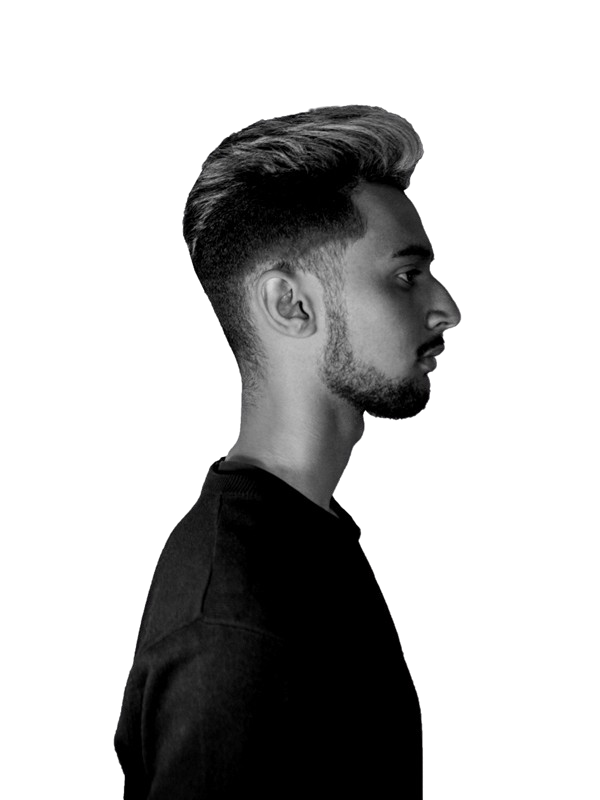
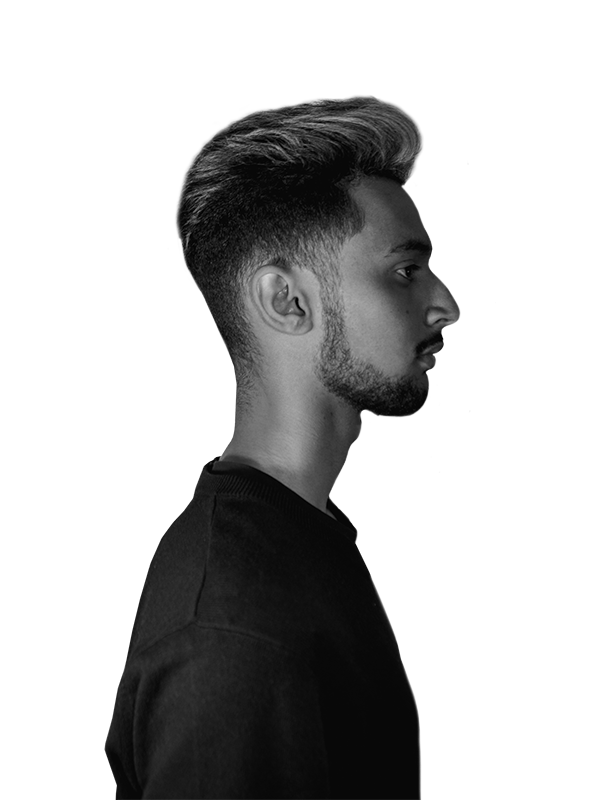
Atualizar foto e conteúdo da página

diff --git a/src/css/style.css b/src/css/style.css
@@ -1,1 +1,1 @@
-*,*::before,*::after{box-sizing:border-box}html{scroll-behavior:smooth}body{font-family:"Poppins",sans-serif;margin:0;padding:0;overflow-x:hidden;transition:.4s}body,section{overflow-x:hidden}img{max-width:100%}ul{margin:0;padding-left:0}li{list-style:none}a{text-decoration:none}button{cursor:pointer}h1,h2,h3,h4,p{margin:0;padding:0}.container,.row{display:flex;flex:1;flex-wrap:wrap}.grid-md-12{margin-left:10px;margin-right:10px;min-height:1px;width:calc(100% - 20px)}.grid-1{width:calc(8.33333% - 20px)}.grid-2{width:calc(16.66667% - 20px)}.grid-3{width:calc(25% - 20px)}.grid-4{width:calc(33.33333% - 20px)}.grid-5{width:calc(41.66667% - 20px)}.grid-6{width:calc(50% - 20px)}.grid-7{width:calc(58.33333% - 20px)}.grid-8{width:calc(66.66667% - 20px)}.grid-9{width:calc(75% - 20px)}.grid-10{width:calc(83.33333% - 20px)}.grid-11{width:calc(91.66667% - 20px)}.grid-12{width:calc(100% - 20px)}[class^="grid-"]{margin-left:10px;margin-right:10px;min-height:1px}@media screen and (max-width: 819px){[class^="grid-"]{margin-left:0;margin-right:0;width:100%}}.offset-1{margin-left:calc(8.33333% + 10px)}.offset-2{margin-left:calc(16.66667% + 10px)}.offset-3{margin-left:calc(25% + 10px)}.offset-4{margin-left:calc(33.33333% + 10px)}.offset-5{margin-left:calc(41.66667% + 10px)}.offset-6{margin-left:calc(50% + 10px)}.offset-7{margin-left:calc(58.33333% + 10px)}.offset-8{margin-left:calc(66.66667% + 10px)}.offset-9{margin-left:calc(75% + 10px)}.offset-10{margin-left:calc(83.33333% + 10px)}.offset-11{margin-left:calc(91.66667% + 10px)}.offset-12{margin-left:calc(100% + 10px)}@media screen and (max-width: 819px){.offset-1,.offset-2,.offset-3,.offset-4,.offset-5,.offset-6,.offset-7,.offset-8,.offset-9,.offset-10,.offset-11,.offset-12{margin-left:0}}.container{margin:0 auto;max-width:1200px;position:relative}@media screen and (min-width: 820px) and (max-width: 1200px){.container{max-width:820px}}@media screen and (max-width: 819px){.container{max-width:720px;padding-left:10px;padding-right:10px}}.row{margin-left:-10px;margin-right:-10px;position:relative}@media screen and (max-width: 819px){.row{margin-left:0;margin-right:0}}@media screen and (min-width: 820px) and (max-width: 1200px){.grid-md-12{width:calc(100% - 20px)}}.btn{background:#ed145d;border-radius:4px;color:#fff !important;display:block;font-weight:300;margin:0 auto;padding:8px 10px !important;text-transform:uppercase;width:fit-content}.btn-secondary{background:#3c3c3c}.btn-mobile{background:none;border:none;display:none;height:50px;margin:5px;outline:none;width:55px;z-index:99}@media screen and (max-width: 819px){.btn-mobile{display:block}}.btn-mobile span{transition:0.2s;display:block;width:100%;background:#ed145d;height:4px;border-radius:10px}.btn-mobile span+span{margin-top:11px}.btn-mobile span:nth-child(2){width:80%}.btn-mobile span:nth-child(3){width:60%}.btn-mobile.active span{background:#fff}.btn-mobile.active span:nth-child(1){transform:rotate(40deg)}.btn-mobile.active span:nth-child(2){display:none;width:100%}.btn-mobile.active span:nth-child(3){transform:rotate(-40deg);margin-top:-3px;width:100%}.bg-session{position:relative}.bg-session::before{content:'';display:block;height:100%;position:absolute;left:0;top:0;width:100%;background:#dedede;z-index:-10}.title-session{font-weight:900 !important;margin-bottom:32px !important;position:relative;text-transform:uppercase;font-family:"Poppins",sans-serif;font-weight:600;font-size:2.5em;line-height:1em}.title-session::after,.title-session::before{content:'';display:inline-block;position:absolute}.title-session::after{border-radius:4px;height:4px;background:#ed145d;bottom:-8px;left:0;width:30px}.title-session::before{color:#c1c1c1;font-size:130px;font-weight:600 !important;z-index:-1;opacity:0}@media screen and (max-width: 819px){.title-session::before{font-size:100px}}@media screen and (max-width: 719px){.title-session::before{font-size:80px;margin-top:-5px}}@keyframes toLeft{from{transform:translateX(200%);opacity:0}to{transform:translateX(0%);opacity:1}}@keyframes toRight{from{transform:translateX(-200%);opacity:0}to{transform:translateX(0%);opacity:1}}.subtitle-session{margin-bottom:32px;font-family:"Poppins",sans-serif;color:#151515;font-size:1.75em;line-height:1.35714em}@media screen and (max-width: 719px){.subtitle-session{font-size:1.25em}}p{font-weight:500;margin-bottom:16px;font-family:"Poppins",sans-serif;font-size:.875em;line-height:1.42857em}.header{z-index:-1}.header-top{background:#3c3c3c;font-family:"Poppins",sans-serif;font-size:.75em;line-height:1.5em}.header-top .container{z-index:1;padding:4px 0}.header-top a{color:#fff}.header-action{width:100%}.header-action ul{display:flex}.header-action-items{align-items:center;display:flex;width:100%}@media screen and (max-width: 819px){.header-action-items{justify-content:center}}.header-action-items li+li{margin-left:16px}.header-action-nav li span{display:none}.header-action-font{margin-left:32px;margin-right:32px}.header-action-font button{padding:3px;width:36px}@media screen and (max-width: 819px){.header-action-font button{width:32px}}.header-action-contrast li{align-items:center;display:flex;color:#fff}.header-action-contrast img{margin-right:4px;width:16px}@media screen and (max-width: 819px){.header-action-contrast img{width:24px}}.header-action-contrast button{align-items:center;background:transparent !important;border:none !important;color:#fff;display:flex;font-family:Poppins;font-size:12px;font-weight:400}@media screen and (max-width: 819px){.header-action-contrast span{display:none}}.header-main{padding:16px 0}.header-main .container{display:flex;justify-content:space-between}.header-main-logo{color:#ed145d;font-size:30px;transition:0.5s;z-index:1}.header-main-logo::before,.header-main-logo::after{content:'';color:#ed145d;display:inline-block;font-size:26px}.header-main-logo::before{content:'<'}.header-main-logo::after{content:'/>'}@media screen and (max-width: 819px){.header-main-logo{margin-top:10px;z-index:9999}}.header-main-nav{align-items:center;display:flex}@media screen and (max-width: 819px){.header-main-nav{background:rgba(0,0,0,0.999);flex-direction:column;height:calc(100vh + 56px);left:-42px;padding-top:160px;position:absolute;transition:0.5s;top:-60px;margin-left:-100% !important;min-width:35%;width:320px;z-index:1}.header-main-nav.active{left:-42px;margin-left:-10px !important}.header-main-nav.active::after{background:rgba(0,0,0,0.5);content:'';display:inline-block;height:calc(160vh + 60px);left:320px;margin-left:0;position:absolute;right:auto;top:0;width:calc(100vw - 296px)}}@media screen and (max-width: 819px) and (max-width: 719px){.header-main-nav.active{left:0}.header-main-nav.active::after{width:calc(100vw - 320px)}}@media screen and (max-width: 819px){.header-main-nav li{display:block;margin-bottom:5px;text-align:left;width:100%}.header-main-nav li a{padding-left:55px;width:100%}}@media screen and (max-width: 819px) and (max-width: 819px){.header-main-nav li a{padding-top:16px !important;padding-bottom:16px !important;display:block}}@media screen and (max-width: 819px) and (max-width: 719px){.header-main-nav li a{padding-left:20px;width:100% !important}}.header-main-nav li+li{margin-left:22px}@media screen and (max-width: 819px){.header-main-nav li+li{margin-left:0}}@media screen and (max-width: 819px){.header-main-nav .btn{border-radius:0 !important;padding-left:55px !important;width:100% !important}}@media screen and (max-width: 719px){.header-main-nav .btn{padding-left:20px !important}}.header-main-nav a{color:#7b7e80;padding:10px}.main{height:86vh;min-height:658px}@media screen and (max-width: 819px){.main{min-height:auto !important;margin-bottom:0px !important}}@media screen and (min-width: 1440px){.main{height:70vh}}.main .container{height:100%}.main-content{position:relative}.main-content-center{position:absolute;right:-72px;transform:rotate(-90deg);top:45px;z-index:-1}@media screen and (max-width: 819px){.main-content-center{right:200px;top:115px}}@media screen and (max-width: 719px){.main-content-center{right:-20px;top:115px}}.main-content-center h1{text-transform:uppercase;position:relative;overflow:hidden;height:192px;width:500px;font-family:"Poppins",sans-serif;font-size:3.75em;font-weight:900 !important;letter-spacing:-1px;line-height:1.05em}@media screen and (max-width: 819px){.main-content-center h1{font-size:3em}}.main-content-center h1 .text-effect{position:absolute}.main-content-center h2{left:-50px;position:absolute;text-transform:uppercase;top:75px;z-index:-1;font-family:"Poppins",sans-serif;color:#c1c1c1;font-size:8.125em;font-weight:600;letter-spacing:8px;line-height:.70769em}.main-content-center h3{height:80px;margin-bottom:16px;margin-top:16px;overflow:hidden;position:relative;text-transform:uppercase;font-family:"Poppins",sans-serif;font-weight:600;font-size:2.5em;line-height:1em}@media screen and (max-width: 819px){.main-content-center h3{display:none}}.main-content-center h3 .text-effect{position:absolute}.main-content-center p{color:#7b7e80;height:100px;overflow:hidden;position:relative;width:200px;font-family:"Poppins",sans-serif;font-size:.75em;line-height:1.5em}@media screen and (max-width: 819px){.main-content-center p{height:110px}}.main-content-center p .text-effect{position:absolute}.main-content-bottom{bottom:0;position:absolute}@media screen and (max-width: 819px){.main-content-bottom{position:relative;display:none}}.main-content-bottom span span{color:#ed145d}.main-content-bottom h2{height:84px;margin-bottom:15px;overflow:hidden;position:relative;width:420px;font-family:"Poppins",sans-serif;color:#151515;font-size:1.75em;line-height:1.35714em}@media screen and (max-width: 719px){.main-content-bottom h2{font-size:1.25em}}@media screen and (max-width: 819px){.main-content-bottom h2{max-width:100%;max-width:329px;overflow:initial}}.main-content-bottom h2 .text-effect{position:absolute}.main-img{align-items:flex-end;display:flex;justify-content:center}@media screen and (max-width: 819px){.main-img{align-items:flex-end;justify-content:flex-end}}.main-img-bg{background:url(../img/me01.jpeg) no-repeat;background-size:98% 100%;bottom:0;height:620px;margin-top:14px;right:0;width:445px}@media screen and (min-width: 820px) and (max-width: 1200px){.main-img-bg{background-size:114% 100%;background-position-x:31%;width:370px !important}}@media screen and (max-width: 819px){.main-img-bg{background:url(../img/me01-mobile.png) no-repeat;background-size:95% 100%;background-position:80px bottom;margin-right:0;margin-left:-110px;margin-top:-90px}}.about{padding:102px 0 64px;position:relative;width:100%}@media screen and (max-width: 819px){.about{padding:64px 0 !important}}@media screen and (max-width: 819px){.about h2,.about h3{text-align:center}}.about .title-session{height:40px}.about .title-session::before{content:'Sobre';left:-35px}@media screen and (max-width: 819px){.about .title-session::before{left:0;width:100%}}@media screen and (max-width: 819px){.about .title-session::after{display:block;margin:auto;position:relative}}.about-img{align-items:center;display:flex;justify-content:center}@media screen and (max-width: 819px){.about-text{padding-top:59px}}.portfolio{padding:102px 0 64px;text-align:center}.portfolio .grid-10{margin-left:auto;margin-right:auto}.portfolio h2::before{content:'Portfólio';text-align:center;width:100%;display:block}.portfolio h2::after{display:block;margin:auto;position:relative}.portfolio-slider-item{border-radius:5px;height:fit-content;position:relative;width:100.03%}@media screen and (max-width: 719px){.portfolio .slides-container{height:320px !important}}.stacks{padding:102px 0 64px;text-align:center}.stacks .grid-10{margin-left:auto;margin-right:auto}@media screen and (max-width: 819px){.stacks .row{justify-content:center}}.stacks h2::before{content:'Tecnologias';text-align:center;display:block;width:100%}@media screen and (min-width: 820px) and (max-width: 1200px){.stacks h2::before{margin-left:-60px !important}}@media screen and (max-width: 719px){.stacks h2::before{margin-left:-1%}}.stacks h2::after{display:block;margin:auto;position:relative}.stacks-itens{margin-top:64px}.stacks-item{margin-bottom:32px;width:calc(100% / 5)}@media screen and (max-width: 819px){.stacks-item{width:calc(100% / 3)}}@media screen and (max-width: 719px){.stacks-item{width:calc(100% / 2)}}.stacks-item h4{color:#3c3c3c;text-transform:uppercase;margin-top:16px;font-family:"Poppins",sans-serif;font-size:1em;font-weight:500}.stacks-buttons{align-items:center;display:flex;flex-direction:column;margin-top:32px}.stacks-buttons a{display:block;width:185px}.stacks-buttons a:nth-child(1){margin-bottom:16px}.stacks-buttons a:nth-child(2){margin-bottom:16px}.proposal{padding:102px 0 64px;text-align:center}.proposal .grid-10{margin-left:auto;margin-right:auto}.proposal h2::before{content:'Inovar';text-align:center;display:block;width:100%}.proposal h2::after{display:block;margin:auto;position:relative}.proposal h3{margin-right:auto;margin-left:auto}@media screen and (min-width: 1200px){.proposal h3{width:70%}}.proposal .btn{margin-bottom:16px}footer{background:#3c3c3c;padding:32px 0;text-align:center}.wrapper{overflow:hidden;width:100%}.slides-container{height:500px;position:relative;transition:900ms}.slide-image{height:100%;position:absolute;width:100%}.slide-image img{height:100%;object-fit:cover;object-position:top;transition:8s;width:100%}.slide-image:hover img{object-position:bottom}.next-btn,.prev-btn{color:#ed145d;cursor:pointer;font-size:40px;padding:16px;position:absolute;transform:translateY(-50%);transition:400ms;top:50%;z-index:100}.next-btn:hover,.prev-btn:hover{color:#bb002b}.prev-btn{left:-70px}@media screen and (max-width: 719px){.prev-btn{left:-35px}}.next-btn{right:-70px}@media screen and (max-width: 719px){.next-btn{right:-35px}}.navigation-dots{display:flex;height:32px;align-items:center;justify-content:center;margin:16px 0}.single-dot{border:2px solid #ed145d;border-radius:50%;cursor:pointer;display:inline-block;height:14px;margin:0 8px;transition:400ms;width:14px}.single-dot.active{background:#ed145d}.dark{background:#1b1b1b !important}.dark h1{color:#fff !important}.dark h2{color:#fff !important}.dark .bg-session::before{background:#171717}.dark .main-content-center h2{color:#3b3b3b !important}.dark .main-content-center h3{color:#fff !important}.dark .main-content-center p{color:#7B7E80 !important}.dark .title-session::before{color:#3b3b3b !important}.dark .subtitle-session{color:#fff !important}.dark p{color:#fff !important}.dark .stacks-item:not(:nth-child(7)) svg path{fill:#ed145d !important}.dark .stacks-item:nth-child(7) path:not(:nth-child(4)){fill:#ed145d !important}.dark .stacks-item:nth-child(7) path:nth-child(4){fill:#1b1b1b !important}.dark .stacks-item h4{color:#fff !important}.dark footer{background:#171717}.section-animation{opacity:0}.section-animation.active{animation:animaSection 1s forwards}.section-animation.active .title-session::before{animation:toLeft forwards 2s}.section-animation.portfolio.active .title-session::before{animation:toRight forwards 2s}.section-animation.proposal.active .title-session::before{animation:toRight forwards 2s}@keyframes animaSection{from{opacity:0;transform:translateX(-40px)}to{opacity:1;transform:translateX(0px)}}
+*,*::before,*::after{box-sizing:border-box}html{scroll-behavior:smooth}body{font-family:"Poppins",sans-serif;margin:0;padding:0;overflow-x:hidden;transition:.4s}body,section{overflow-x:hidden}img{max-width:100%}ul{margin:0;padding-left:0}li{list-style:none}a{text-decoration:none}button{cursor:pointer}h1,h2,h3,h4,p{margin:0;padding:0}.container,.row{display:flex;flex:1;flex-wrap:wrap}.grid-md-12{margin-left:10px;margin-right:10px;min-height:1px;width:calc(100% - 20px)}.grid-1{width:calc(8.33333% - 20px)}.grid-2{width:calc(16.66667% - 20px)}.grid-3{width:calc(25% - 20px)}.grid-4{width:calc(33.33333% - 20px)}.grid-5{width:calc(41.66667% - 20px)}.grid-6{width:calc(50% - 20px)}.grid-7{width:calc(58.33333% - 20px)}.grid-8{width:calc(66.66667% - 20px)}.grid-9{width:calc(75% - 20px)}.grid-10{width:calc(83.33333% - 20px)}.grid-11{width:calc(91.66667% - 20px)}.grid-12{width:calc(100% - 20px)}[class^="grid-"]{margin-left:10px;margin-right:10px;min-height:1px}@media screen and (max-width: 819px){[class^="grid-"]{margin-left:0;margin-right:0;width:100%}}.offset-1{margin-left:calc(8.33333% + 10px)}.offset-2{margin-left:calc(16.66667% + 10px)}.offset-3{margin-left:calc(25% + 10px)}.offset-4{margin-left:calc(33.33333% + 10px)}.offset-5{margin-left:calc(41.66667% + 10px)}.offset-6{margin-left:calc(50% + 10px)}.offset-7{margin-left:calc(58.33333% + 10px)}.offset-8{margin-left:calc(66.66667% + 10px)}.offset-9{margin-left:calc(75% + 10px)}.offset-10{margin-left:calc(83.33333% + 10px)}.offset-11{margin-left:calc(91.66667% + 10px)}.offset-12{margin-left:calc(100% + 10px)}@media screen and (max-width: 819px){.offset-1,.offset-2,.offset-3,.offset-4,.offset-5,.offset-6,.offset-7,.offset-8,.offset-9,.offset-10,.offset-11,.offset-12{margin-left:0}}.container{margin:0 auto;max-width:1200px;position:relative}@media screen and (min-width: 820px) and (max-width: 1200px){.container{max-width:820px}}@media screen and (max-width: 819px){.container{max-width:720px;padding-left:10px;padding-right:10px}}.row{margin-left:-10px;margin-right:-10px;position:relative}@media screen and (max-width: 819px){.row{margin-left:0;margin-right:0}}@media screen and (min-width: 820px) and (max-width: 1200px){.grid-md-12{width:calc(100% - 20px)}}.btn{background:#ed145d;border-radius:4px;color:#fff !important;display:block;font-weight:300;margin:0 auto;padding:8px 10px !important;text-transform:uppercase;width:fit-content}.btn-secondary{background:#3c3c3c}.btn-mobile{background:none;border:none;display:none;height:50px;margin:5px;outline:none;width:55px;z-index:99}@media screen and (max-width: 819px){.btn-mobile{display:block}}.btn-mobile span{transition:0.2s;display:block;width:100%;background:#ed145d;height:4px;border-radius:10px}.btn-mobile span+span{margin-top:11px}.btn-mobile span:nth-child(2){width:80%}.btn-mobile span:nth-child(3){width:60%}.btn-mobile.active span{background:#fff}.btn-mobile.active span:nth-child(1){transform:rotate(40deg)}.btn-mobile.active span:nth-child(2){display:none;width:100%}.btn-mobile.active span:nth-child(3){transform:rotate(-40deg);margin-top:-3px;width:100%}.bg-session{position:relative}.bg-session::before{content:'';display:block;height:100%;position:absolute;left:0;top:0;width:100%;background:#dedede;z-index:-10}.title-session{font-weight:900 !important;margin-bottom:32px !important;position:relative;text-transform:uppercase;font-family:"Poppins",sans-serif;font-weight:600;font-size:2.5em;line-height:1em}.title-session::after,.title-session::before{content:'';display:inline-block;position:absolute}.title-session::after{border-radius:4px;height:4px;background:#ed145d;bottom:-8px;left:0;width:30px}.title-session::before{color:#c1c1c1;font-size:130px;font-weight:600 !important;z-index:-1;opacity:0}@media screen and (max-width: 819px){.title-session::before{font-size:100px}}@media screen and (max-width: 719px){.title-session::before{font-size:80px;margin-top:-5px}}@keyframes toLeft{from{transform:translateX(200%);opacity:0}to{transform:translateX(0%);opacity:1}}@keyframes toRight{from{transform:translateX(-200%);opacity:0}to{transform:translateX(0%);opacity:1}}.subtitle-session{margin-bottom:32px;font-family:"Poppins",sans-serif;color:#151515;font-size:1.75em;line-height:1.35714em}@media screen and (max-width: 719px){.subtitle-session{font-size:1.25em}}p{font-weight:500;margin-bottom:16px;font-family:"Poppins",sans-serif;font-size:.875em;line-height:1.42857em}.header{z-index:-1}.header-top{background:#3c3c3c;font-family:"Poppins",sans-serif;font-size:.75em;line-height:1.5em}.header-top .container{z-index:1;padding:4px 0}.header-top a{color:#fff}.header-action{width:100%}.header-action ul{display:flex}.header-action-items{align-items:center;display:flex;width:100%}@media screen and (max-width: 819px){.header-action-items{justify-content:center}}.header-action-items li+li{margin-left:16px}.header-action-nav li span{display:none}.header-action-font{margin-left:32px;margin-right:32px}.header-action-font button{padding:3px;width:36px}@media screen and (max-width: 819px){.header-action-font button{width:32px}}.header-action-contrast li{align-items:center;display:flex;color:#fff}.header-action-contrast img{margin-right:4px;width:16px}@media screen and (max-width: 819px){.header-action-contrast img{width:24px}}.header-action-contrast button{align-items:center;background:transparent !important;border:none !important;color:#fff;display:flex;font-family:Poppins;font-size:12px;font-weight:400}@media screen and (max-width: 819px){.header-action-contrast span{display:none}}.header-main{padding:16px 0}.header-main .container{display:flex;justify-content:space-between}.header-main-logo{color:#ed145d;font-size:30px;transition:0.5s;z-index:1}.header-main-logo::before,.header-main-logo::after{content:'';color:#ed145d;display:inline-block;font-size:26px}.header-main-logo::before{content:'<'}.header-main-logo::after{content:'/>'}@media screen and (max-width: 819px){.header-main-logo{margin-top:10px;z-index:9999}}.header-main-nav{align-items:center;display:flex}@media screen and (max-width: 819px){.header-main-nav{background:rgba(0,0,0,0.999);flex-direction:column;height:calc(100vh + 56px);left:-42px;padding-top:160px;position:absolute;transition:0.5s;top:-60px;margin-left:-100% !important;min-width:35%;width:320px;z-index:1}.header-main-nav.active{left:-42px;margin-left:-10px !important}.header-main-nav.active::after{background:rgba(0,0,0,0.5);content:'';display:inline-block;height:calc(160vh + 60px);left:320px;margin-left:0;position:absolute;right:auto;top:0;width:calc(100vw - 296px)}}@media screen and (max-width: 819px) and (max-width: 719px){.header-main-nav.active{left:0}.header-main-nav.active::after{width:calc(100vw - 320px)}}@media screen and (max-width: 819px){.header-main-nav li{display:block;margin-bottom:5px;text-align:left;width:100%}.header-main-nav li a{padding-left:55px;width:100%}}@media screen and (max-width: 819px) and (max-width: 819px){.header-main-nav li a{padding-top:16px !important;padding-bottom:16px !important;display:block}}@media screen and (max-width: 819px) and (max-width: 719px){.header-main-nav li a{padding-left:20px;width:100% !important}}.header-main-nav li+li{margin-left:22px}@media screen and (max-width: 819px){.header-main-nav li+li{margin-left:0}}@media screen and (max-width: 819px){.header-main-nav .btn{border-radius:0 !important;padding-left:55px !important;width:100% !important}}@media screen and (max-width: 719px){.header-main-nav .btn{padding-left:20px !important}}.header-main-nav a{color:#7b7e80;padding:10px}.main{height:86vh;min-height:658px}@media screen and (max-width: 819px){.main{min-height:auto !important;margin-bottom:0px !important}}@media screen and (min-width: 1440px){.main{height:70vh}}.main .container{height:100%}.main-content{position:relative}.main-content-center{position:absolute;right:-72px;transform:rotate(-90deg);top:45px;z-index:-1}@media screen and (max-width: 819px){.main-content-center{right:200px;top:115px}}@media screen and (max-width: 719px){.main-content-center{right:-20px;top:115px}}.main-content-center h1{text-transform:uppercase;position:relative;overflow:hidden;height:192px;width:500px;font-family:"Poppins",sans-serif;font-size:3.75em;font-weight:900 !important;letter-spacing:-1px;line-height:1.05em}@media screen and (max-width: 819px){.main-content-center h1{font-size:3em}}.main-content-center h1 .text-effect{position:absolute}.main-content-center h2{left:-50px;position:absolute;text-transform:uppercase;top:75px;z-index:-1;font-family:"Poppins",sans-serif;color:#c1c1c1;font-size:8.125em;font-weight:600;letter-spacing:8px;line-height:.70769em}.main-content-center h3{height:80px;margin-bottom:16px;margin-top:16px;overflow:hidden;position:relative;text-transform:uppercase;font-family:"Poppins",sans-serif;font-weight:600;font-size:2.5em;line-height:1em}@media screen and (max-width: 819px){.main-content-center h3{display:none}}.main-content-center h3 .text-effect{position:absolute}.main-content-center p{color:#7b7e80;height:100px;overflow:hidden;position:relative;width:200px;font-family:"Poppins",sans-serif;font-size:.75em;line-height:1.5em}@media screen and (max-width: 819px){.main-content-center p{height:110px}}.main-content-center p .text-effect{position:absolute}.main-content-bottom{bottom:0;position:absolute}@media screen and (max-width: 819px){.main-content-bottom{position:relative;display:none}}.main-content-bottom span span{color:#ed145d}.main-content-bottom h2{height:84px;margin-bottom:15px;overflow:hidden;position:relative;width:420px;font-family:"Poppins",sans-serif;color:#151515;font-size:1.75em;line-height:1.35714em}@media screen and (max-width: 719px){.main-content-bottom h2{font-size:1.25em}}@media screen and (max-width: 819px){.main-content-bottom h2{max-width:100%;max-width:329px;overflow:initial}}.main-content-bottom h2 .text-effect{position:absolute}.main-img{align-items:flex-end;display:flex;justify-content:center}@media screen and (max-width: 819px){.main-img{align-items:flex-end;justify-content:flex-end}}.main-img-bg{background:url(../img/me01.jpg) no-repeat;background-size:98% 100%;bottom:0;height:620px;margin-top:14px;right:0;width:445px}@media screen and (min-width: 820px) and (max-width: 1200px){.main-img-bg{background-size:114% 100%;background-position-x:31%;width:370px !important}}@media screen and (max-width: 819px){.main-img-bg{background:url(../img/me01-mobile.png) no-repeat;background-size:95% 100%;background-position:80px bottom;margin-right:0;margin-left:-110px;margin-top:-90px}}.about{padding:102px 0 64px;position:relative;width:100%}@media screen and (max-width: 819px){.about{padding:64px 0 !important}}@media screen and (max-width: 819px){.about h2,.about h3{text-align:center}}.about .title-session{height:40px}.about .title-session::before{content:'Sobre';left:-35px}@media screen and (max-width: 819px){.about .title-session::before{left:0;width:100%}}@media screen and (max-width: 819px){.about .title-session::after{display:block;margin:auto;position:relative}}.about-img{align-items:center;display:flex;justify-content:center}@media screen and (max-width: 819px){.about-text{padding-top:59px}}.portfolio{padding:102px 0 64px;text-align:center}.portfolio .grid-10{margin-left:auto;margin-right:auto}.portfolio h2::before{content:'Portfólio';text-align:center;width:100%;display:block}.portfolio h2::after{display:block;margin:auto;position:relative}.portfolio-slider-item{border-radius:5px;height:fit-content;position:relative;width:100.03%}@media screen and (max-width: 719px){.portfolio .slides-container{height:320px !important}}.stacks{padding:102px 0 64px;text-align:center}.stacks .grid-10{margin-left:auto;margin-right:auto}@media screen and (max-width: 819px){.stacks .row{justify-content:center}}.stacks h2::before{content:'Tecnologias';text-align:center;display:block;width:100%}@media screen and (min-width: 820px) and (max-width: 1200px){.stacks h2::before{margin-left:-60px !important}}@media screen and (max-width: 719px){.stacks h2::before{margin-left:-1%}}.stacks h2::after{display:block;margin:auto;position:relative}.stacks-itens{margin-top:64px}.stacks-item{margin-bottom:32px;width:calc(100% / 5)}@media screen and (max-width: 819px){.stacks-item{width:calc(100% / 3)}}@media screen and (max-width: 719px){.stacks-item{width:calc(100% / 2)}}.stacks-item h4{color:#3c3c3c;text-transform:uppercase;margin-top:16px;font-family:"Poppins",sans-serif;font-size:1em;font-weight:500}.stacks-buttons{align-items:center;display:flex;flex-direction:column;margin-top:32px}.stacks-buttons a{display:block;width:185px}.stacks-buttons a:nth-child(1){margin-bottom:16px}.stacks-buttons a:nth-child(2){margin-bottom:16px}.proposal{padding:102px 0 64px;text-align:center}.proposal .grid-10{margin-left:auto;margin-right:auto}.proposal h2::before{content:'Inovar';text-align:center;display:block;width:100%}.proposal h2::after{display:block;margin:auto;position:relative}.proposal h3{margin-right:auto;margin-left:auto}@media screen and (min-width: 1200px){.proposal h3{width:70%}}.proposal .btn{margin-bottom:16px}footer{background:#3c3c3c;padding:32px 0;text-align:center}.wrapper{overflow:hidden;width:100%}.slides-container{height:500px;position:relative;transition:900ms}.slide-image{height:100%;position:absolute;width:100%}.slide-image img{height:100%;object-fit:cover;object-position:top;transition:8s;width:100%}.slide-image:hover img{object-position:bottom}.next-btn,.prev-btn{color:#ed145d;cursor:pointer;font-size:40px;padding:16px;position:absolute;transform:translateY(-50%);transition:400ms;top:50%;z-index:100}.next-btn:hover,.prev-btn:hover{color:#bb002b}.prev-btn{left:-70px}@media screen and (max-width: 719px){.prev-btn{left:-35px}}.next-btn{right:-70px}@media screen and (max-width: 719px){.next-btn{right:-35px}}.navigation-dots{display:flex;height:32px;align-items:center;justify-content:center;margin:16px 0}.single-dot{border:2px solid #ed145d;border-radius:50%;cursor:pointer;display:inline-block;height:14px;margin:0 8px;transition:400ms;width:14px}.single-dot.active{background:#ed145d}.dark{background:#1b1b1b !important}.dark h1{color:#fff !important}.dark h2{color:#fff !important}.dark .bg-session::before{background:#171717}.dark .main-content-center h2{color:#3b3b3b !important}.dark .main-content-center h3{color:#fff !important}.dark .main-content-center p{color:#7B7E80 !important}.dark .title-session::before{color:#3b3b3b !important}.dark .subtitle-session{color:#fff !important}.dark p{color:#fff !important}.dark .stacks-item:not(:nth-child(7)) svg path{fill:#ed145d !important}.dark .stacks-item:nth-child(7) path:not(:nth-child(4)){fill:#ed145d !important}.dark .stacks-item:nth-child(7) path:nth-child(4){fill:#1b1b1b !important}.dark .stacks-item h4{color:#fff !important}.dark footer{background:#171717}.section-animation{opacity:0}.section-animation.active{animation:animaSection 1s forwards}.section-animation.active .title-session::before{animation:toLeft forwards 2s}.section-animation.portfolio.active .title-session::before{animation:toRight forwards 2s}.section-animation.proposal.active .title-session::before{animation:toRight forwards 2s}@keyframes animaSection{from{opacity:0;transform:translateX(-40px)}to{opacity:1;transform:translateX(0px)}}

diff --git a/src/css/scss/_geral.scss b/src/css/scss/_geral.scss
@@ -507,7 +507,7 @@ p {
     }
 
     &-bg {
-      background: url(../img/me01.jpeg) no-repeat;
+      background: url(../img/me01.jpg) no-repeat;
       background-size: 98% 100%;
       bottom: 0;
       height: 620px;
